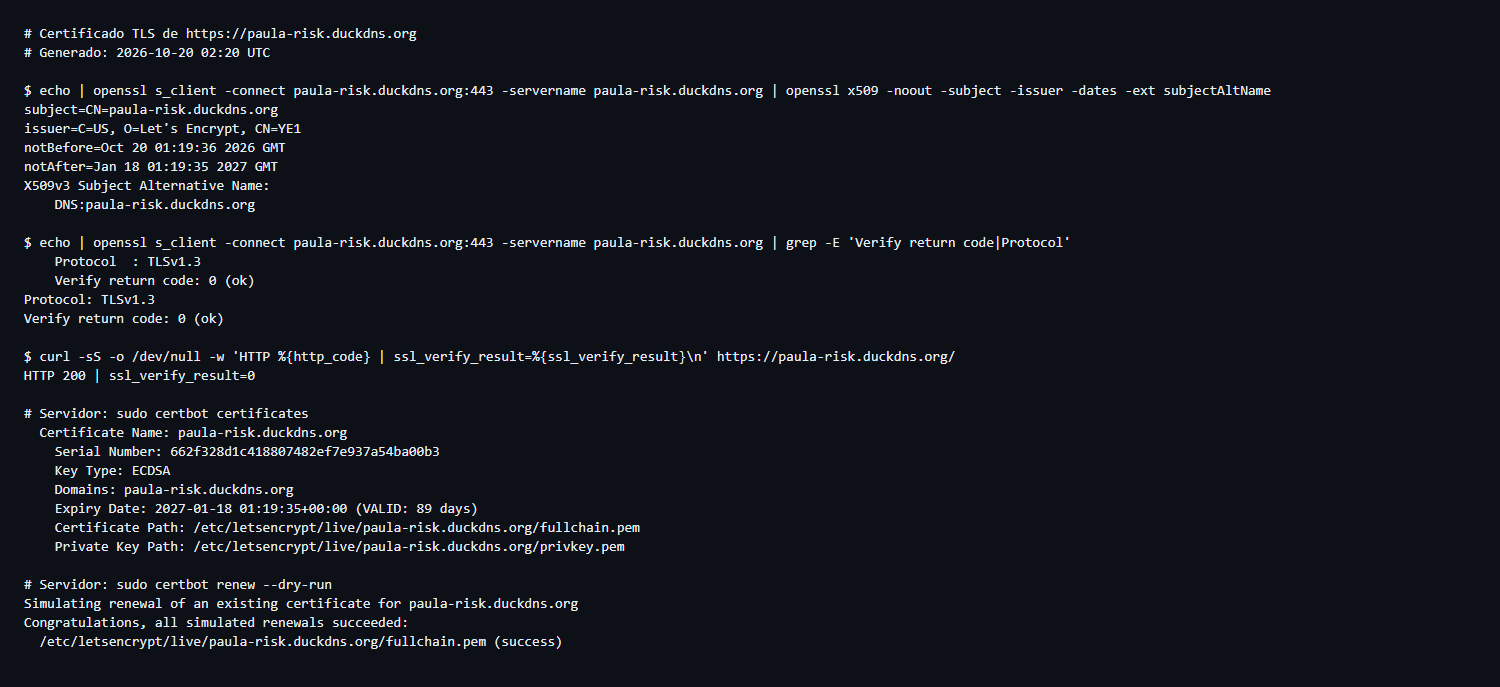
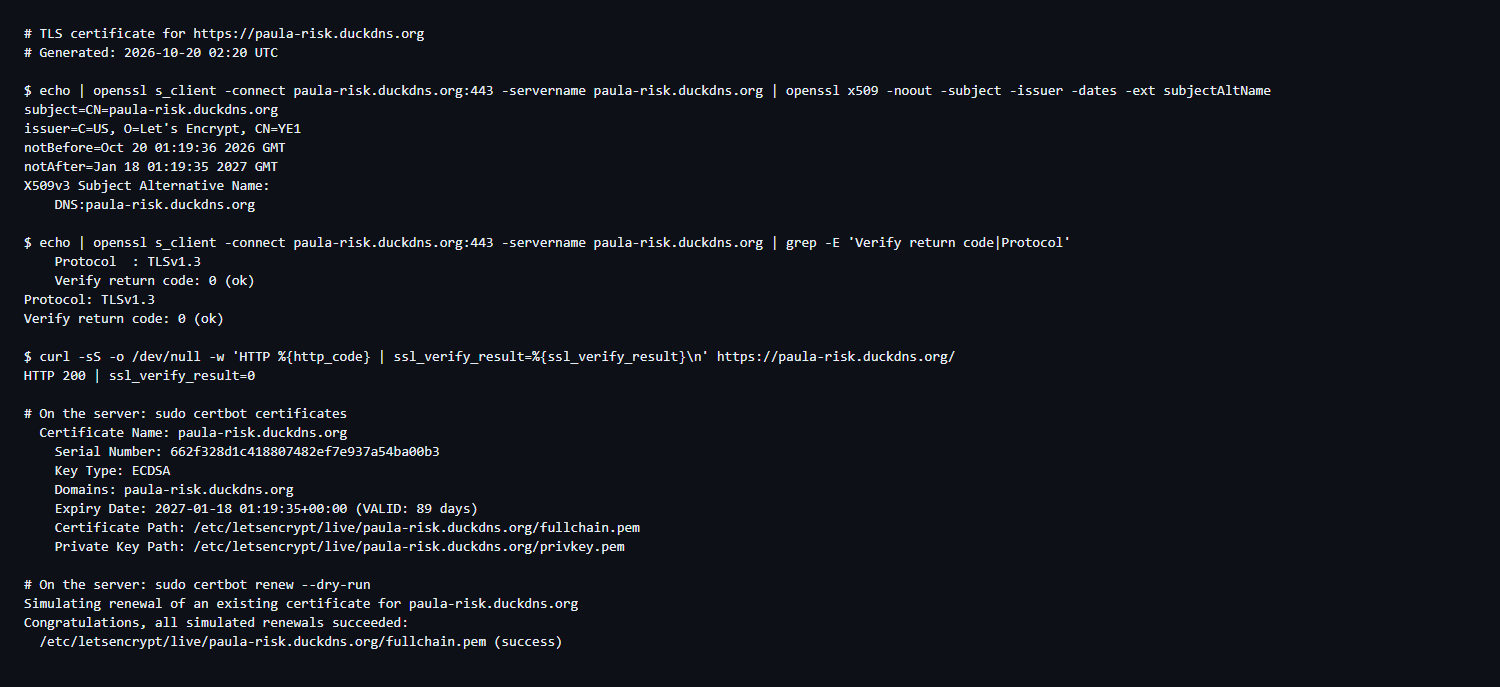
Switch the READMEs and evidence notes to English
Rewrite both READMEs in plain English, translate the comments in the
certificate and verification evidence, and re-render their images.

Changed region(s): [[0.0307, 0.0306, 0.276, 0.0917], [0.0307, 0.8253, 0.2453, 0.8559], [0.0307, 0.5808, 0.2453, 0.6114]]

diff --git a/README.md b/README.md
@@ -1,47 +1,49 @@
 # Secure Web System as an Enterprise Risk Control
 
-Este proyecto es un sistema web pequeño hecho para practicar controles de seguridad. Tiene tres partes:
+This is a small web app built to practice security controls. It has three parts:
 
-- Un **frontend en React** (hecho con Vite) donde la persona inicia sesión con **Auth0**.
-- Un **backend en Spring Boot** que funciona como **OAuth 2.0 Resource Server**. Solo responde si la petición trae un token JWT válido de Auth0, y revisa quién lo emitió (`issuer`) y para qué API es (`audience`).
-- Un **despliegue público con HTTPS**, usando **Duck DNS** para el dominio, **Apache** como proxy inverso y un certificado gratuito de **Let's Encrypt**.
+- A **React frontend** (built with Vite) where you log in with **Auth0**.
+- A **Spring Boot backend** that works as an **OAuth 2.0 Resource Server**. It only answers if the request has a valid JWT from Auth0, and it checks who issued the token (`issuer`) and which API it was made for (`audience`).
+- A **public HTTPS deployment**, using **Duck DNS** for the domain, **Apache** as a reverse proxy and a free **Let's Encrypt** certificate.
 
-## Dónde está desplegado
+## Where it's deployed
 
 **https://paula-risk.duckdns.org**
 
-## Cómo funciona
+If the link doesn't load, the EC2 instance is probably stopped. We shut it down when it's not in use to save AWS lab credits. All the proof that it worked is in `docs/evidence/`.
 
-1. La persona entra al frontend y le da clic a **Log in**.
-2. Auth0 le pide su correo y contraseña. Si son correctos, le entrega al navegador un access token para la API `https://enterprise-risk-api`.
-3. Cuando la persona le da clic a **Call protected API**, el frontend llama a `GET /api/risk-status` y manda el token en la cabecera `Authorization: Bearer <token>`.
-4. El backend revisa el token. Si es válido, responde con un JSON. Si no hay token o no sirve, responde `401`.
-5. En el servidor, todo entra por Apache en los puertos 80 y 443. Apache entrega el frontend y le pasa las peticiones de `/api/` al backend, que solo escucha dentro del servidor en `127.0.0.1:8080`. Así el puerto 8080 nunca queda abierto a internet.
+## How it works
 
-## Qué hay en el repositorio
+1. You open the frontend and click **Log in**.
+2. Auth0 asks for your email and password. If they're right, it gives the browser an access token for the `https://enterprise-risk-api` API.
+3. When you click **Call protected API**, the frontend calls `GET /api/risk-status` and sends the token in the `Authorization: Bearer <token>` header.
+4. The backend checks the token. If it's valid, it answers with a JSON. If there's no token or it's not valid, it answers `401`.
+5. On the server, everything comes in through Apache on ports 80 and 443. Apache serves the frontend and passes `/api/` requests to the backend, which only listens inside the server on `127.0.0.1:8080`. That way port 8080 is never open to the internet.
 
-| Carpeta o archivo | Qué contiene |
+## What's in the repo
+
+| Folder or file | What's inside |
 |---|---|
-| `backend/` | La API en Spring Boot con Java 21 y Maven. Ahí están `SecurityConfig`, `RiskController` y `application.properties` |
-| `frontend/` | La app en React con `@auth0/auth0-react` |
-| `deploy/enterprise-risk-api.service` | El servicio de systemd que deja corriendo el backend en el servidor (Parte 5) |
-| `deploy/enterprise-risk.conf` | La configuración del sitio en Apache (Parte 6) |
-| `docs/evidence/` | Las capturas y las salidas de comandos que sirven de evidencia |
+| `backend/` | The Spring Boot API with Java 21 and Maven. This is where `SecurityConfig`, `RiskController` and `application.properties` live |
+| `frontend/` | The React app with `@auth0/auth0-react` |
+| `deploy/enterprise-risk-api.service` | The systemd service that keeps the backend running on the server (Part 5) |
+| `deploy/enterprise-risk.conf` | The Apache site config (Part 6) |
+| `docs/evidence/` | Screenshots and command output used as proof |
 
-## Configuración en Auth0
+## Auth0 setup
 
-| Qué | Valor |
+| What | Value |
 |---|---|
 | API | `Enterprise Risk Lab API` |
 | Identifier (audience) | `https://enterprise-risk-api` |
-| Algoritmo de firma | `RS256` |
-| Permiso | `read:risk`, que sirve para leer el estado de riesgo protegido |
-| Aplicación del navegador (SPA) | `Enterprise Risk Lab Frontend`, con **User-Delegated Access** a `read:risk` |
-| Callback URLs, Logout URLs y Web Origins | `http://localhost:5173,https://paula-risk.duckdns.org` |
+| Signing algorithm | `RS256` |
+| Permission | `read:risk`, used to read the protected risk status |
+| Browser app (SPA) | `Enterprise Risk Lab Frontend`, with **User-Delegated Access** to `read:risk` |
+| Callback URLs, Logout URLs and Web Origins | `http://localhost:5173,https://paula-risk.duckdns.org` |
 
-La SPA necesita **User-Delegated Access** porque actúa en nombre de la persona que inició sesión. El acceso tipo *Client Access* es para comunicación entre máquinas y no sirve para un login desde el navegador.
+The SPA needs **User-Delegated Access** because it acts on behalf of the person who logged in. *Client Access* is for machine to machine apps and doesn't work for a browser login.
 
-## Cómo correrlo en local
+## Running it locally
 
 **Backend**
 
@@ -50,11 +52,11 @@ cd backend
 ./mvnw spring-boot:run
 ```
 
-Si abres `http://localhost:8080/api/risk-status` sin token, responde `401 Unauthorized`. Eso es lo esperado.
+If you open `http://localhost:8080/api/risk-status` without a token, you get `401 Unauthorized`. That's expected.
 
 **Frontend**
 
-Copia `frontend/.env.example` como `frontend/.env.local` y llénalo con el Domain y el Client ID de la aplicación en Auth0. Este archivo no se sube al repositorio.
+Copy `frontend/.env.example` to `frontend/.env.local` and fill in the Domain and Client ID of the Auth0 app. This file is never pushed to the repo.
 
 ```
 VITE_AUTH0_DOMAIN=YOUR_TENANT.us.auth0.com
@@ -69,73 +71,73 @@ npm install
 npm run dev
 ```
 
-Luego abres `http://localhost:5173`, inicias sesión y le das clic a **Call protected API**.
+Then open `http://localhost:5173`, log in and click **Call protected API**.
 
-## Cómo se desplegó
+## How it was deployed
 
-1. **Servidor:** una instancia EC2 de AWS con Ubuntu y una Elastic IP (`98.82.207.254`). Se creó el usuario `deploy`, que no es root, y se activó el firewall `ufw`. Desde internet solo se puede entrar por los puertos 80 y 443 para la web, y por el 22 para administrar el servidor por SSH. El 8080 no está abierto.
-2. **Duck DNS:** el subdominio `paula-risk.duckdns.org` apunta a la Elastic IP.
-3. **Paquetes:** se instalaron con `sudo apt install -y apache2 certbot python3-certbot-apache openjdk-21-jre`.
-4. **Compilación:** el frontend y el backend se compilaron en mi computador con `npm run build` y `./mvnw clean package`, y se copiaron al servidor con `scp`. Para el build de producción se usó `VITE_API_URL=https://paula-risk.duckdns.org`.
-5. **Backend:** el JAR quedó en `/opt/enterprise-risk-api/app.jar` y corre con el usuario de sistema `riskapi` usando `deploy/enterprise-risk-api.service`. A ese servicio le agregué `SERVER_ADDRESS=127.0.0.1` para que escuche solo dentro del servidor. Sin esa línea, Spring Boot escucha en todas las interfaces y el puerto 8080 solo quedaría protegido por el firewall.
-6. **Frontend:** el contenido de `dist/` quedó en `/var/www/enterprise-risk-frontend`.
-7. **Apache:** se activaron los módulos con `sudo a2enmod ssl proxy proxy_http rewrite headers`, se habilitó el sitio `deploy/enterprise-risk.conf` y se deshabilitó el sitio por defecto.
-8. **HTTPS:** el certificado se sacó con `sudo certbot --apache -d paula-risk.duckdns.org`. Certbot creó la configuración del puerto 443 y agregó la redirección de HTTP a HTTPS. Esa redirección no funcionaba porque `RewriteEngine On` solo estaba dentro del bloque `<Directory>`, así que se agregó también a nivel del VirtualHost del puerto 80.
-9. **Renovación:** `sudo certbot renew --dry-run` terminó sin errores. Certbot deja programada la renovación automática.
-10. **Auth0:** se agregó `https://paula-risk.duckdns.org` en Callback URLs, Logout URLs y Web Origins.
+1. **Server:** an AWS EC2 instance with Ubuntu and an Elastic IP (`98.82.207.254`). We created a `deploy` user that isn't root and turned on the `ufw` firewall. From the internet you can only get in through ports 80 and 443 for the web, and port 22 to manage the server over SSH. Port 8080 isn't open.
+2. **Duck DNS:** the `paula-risk.duckdns.org` subdomain points to the Elastic IP.
+3. **Packages:** installed with `sudo apt install -y apache2 certbot python3-certbot-apache openjdk-21-jre`.
+4. **Build:** the frontend and backend were built on my computer with `npm run build` and `./mvnw clean package`, then copied to the server with `scp`. The production build uses `VITE_API_URL=https://paula-risk.duckdns.org`.
+5. **Backend:** the JAR lives in `/opt/enterprise-risk-api/app.jar` and runs as the `riskapi` system user through `deploy/enterprise-risk-api.service`. I added `SERVER_ADDRESS=127.0.0.1` to that service so it only listens inside the server. Without that line, Spring Boot listens on every network interface and port 8080 would only be protected by the firewall.
+6. **Frontend:** the contents of `dist/` went to `/var/www/enterprise-risk-frontend`.
+7. **Apache:** we turned on the modules with `sudo a2enmod ssl proxy proxy_http rewrite headers`, enabled the `deploy/enterprise-risk.conf` site and disabled the default site.
+8. **HTTPS:** the certificate came from `sudo certbot --apache -d paula-risk.duckdns.org`. Certbot created the port 443 config and added the redirect from HTTP to HTTPS. That redirect didn't work at first because `RewriteEngine On` was only inside the `<Directory>` block, so we also added it to the port 80 VirtualHost.
+9. **Renewal:** `sudo certbot renew --dry-run` finished with no errors. Certbot also sets up automatic renewal.
+10. **Auth0:** we added `https://paula-risk.duckdns.org` to Callback URLs, Logout URLs and Web Origins.
 
-## Evidencias
+## Evidence
 
-Las evidencias que pide el taller:
+What the workshop asks for:
 
-| Entregable | Archivo |
+| Deliverable | File |
 |---|---|
-| Llamada exitosa a la API con sesión iniciada, en el sitio desplegado | [authenticated-api-call.png](docs/evidence/authenticated-api-call.png) |
-| Certificado válido (salida de `openssl` y `certbot`) | [certificate.png](docs/evidence/certificate.png) y [certificate.txt](docs/evidence/certificate.txt) |
-| Revisión de la Parte 7 (salida de los comandos) | [verification.png](docs/evidence/verification.png) y [verification.txt](docs/evidence/verification.txt) |
+| Successful API call while logged in, on the deployed site | [authenticated-api-call.png](docs/evidence/authenticated-api-call.png) |
+| Valid certificate (`openssl` and `certbot` output) | [certificate.png](docs/evidence/certificate.png) and [certificate.txt](docs/evidence/certificate.txt) |
+| Part 7 checks (command output) | [verification.png](docs/evidence/verification.png) and [verification.txt](docs/evidence/verification.txt) |
 
-Capturas de cada paso, en orden:
+Screenshots of each step, in order:
 
-| Capturas | Qué muestran |
+| Screenshots | What they show |
 |---|---|
-| 01 y 02 | La pantalla de login de Auth0 y el inicio de sesión con el usuario de prueba |
-| 03 y 04 | La prueba en local: sesión iniciada y llamada a la API desde `localhost:5173` |
-| 05 y 06 | La Elastic IP asociada y la instancia EC2 corriendo |
-| 07, 08 y 09 | El subdominio creado en Duck DNS, su IP actualizada y la prueba con `nslookup` |
-| 10 a 14 | La conexión por SSH, la instalación de paquetes, el usuario `deploy` y el firewall |
-| 15 | La copia de los archivos al servidor con `scp` |
-| 16 | Las URLs de producción guardadas en Auth0 |
-| 17 | El sitio funcionando en `https://paula-risk.duckdns.org` |
+| 01 and 02 | The Auth0 login screen and logging in with the test user |
+| 03 and 04 | The local test: logged in and calling the API from `localhost:5173` |
+| 05 and 06 | The Elastic IP linked to the instance and the EC2 instance running |
+| 07, 08 and 09 | The subdomain created in Duck DNS, its IP updated and the `nslookup` check |
+| 10 to 14 | SSH access, installing packages, the `deploy` user and the firewall |
+| 15 | Copying the files to the server with `scp` |
+| 16 | The production URLs saved in Auth0 |
+| 17 | The site running at `https://paula-risk.duckdns.org` |
 
-## Lista de verificación
+## Checklist
 
-| Punto | Estado | Cómo se comprobó |
+| Item | Status | How we checked it |
 |---|---|---|
-| Sin login, `/api/risk-status` responde 401 | Listo | `verification.txt`: responde 401 sin token y también con un token falso |
-| Con sesión iniciada se puede llamar a `/api/risk-status` desde el frontend | Listo | `authenticated-api-call.png` |
-| El backend revisa el issuer y la audiencia del JWT | Listo | `application.properties` y el servicio de systemd configuran los dos. Un token falso recibe 401 |
-| La app está en `https://paula-risk.duckdns.org` | Listo | `verification.txt`: responde 200 por HTTPS, y HTTP redirige a HTTPS con 301 |
-| El certificado es válido y el navegador muestra la conexión segura | Listo | `certificate.txt`: emitido por Let's Encrypt, `Verify return code: 0 (ok)`, vence el 18 de enero de 2027 |
-| El puerto 8080 no se puede usar desde internet | Listo | `verification.txt`: desde afuera se agota el tiempo de espera, y en el servidor escucha solo en `127.0.0.1` |
-| `sudo certbot renew --dry-run` funciona | Listo | `certificate.txt` |
+| Without logging in, `/api/risk-status` returns 401 | Done | `verification.txt`: it returns 401 with no token and also with a fake token |
+| A logged in user can call `/api/risk-status` from the frontend | Done | `authenticated-api-call.png` |
+| The backend checks the JWT issuer and audience | Done | Both are set in `application.properties` and in the systemd service. A fake token gets 401 |
+| The app is live at `https://paula-risk.duckdns.org` | Done | `verification.txt`: it returns 200 over HTTPS, and HTTP redirects to HTTPS with 301 |
+| The certificate is valid and the browser shows a secure connection | Done | `certificate.txt`: issued by Let's Encrypt, `Verify return code: 0 (ok)`, expires on January 18, 2027 |
+| Port 8080 can't be reached from the internet | Done | `verification.txt`: from outside the request times out, and on the server it only listens on `127.0.0.1` |
+| `sudo certbot renew --dry-run` works | Done | `certificate.txt` |
 
-## Controles de riesgo
+## Risk controls
 
-| Control | Qué riesgo baja | Evidencia |
+| Control | Risk it lowers | Evidence |
 |---|---|---|
-| Login con Auth0 | Que alguien se haga pasar por otra persona o que las contraseñas se manejen mal | El login de Auth0 y el usuario que aparece en la app |
-| Validación del JWT en la API | Que alguien use la API sin permiso | Responde 401 si no hay un token válido |
-| Validación de la audiencia | Que un token hecho para otra API se use en esta | La API solo acepta tokens para `https://enterprise-risk-api` |
-| HTTPS con certificado válido | Que alguien vea contraseñas o tokens mientras viajan por la red | Los datos del certificado en `certificate.txt` |
-| Apache como proxy inverso | Que el puerto de la aplicación quede expuesto | Solo los puertos 80 y 443 están abiertos |
-| Logs del servicio | Tardar mucho en investigar un incidente | La salida de `journalctl -u enterprise-risk-api` en `verification.txt` |
+| Auth0 login | Someone pretending to be someone else, or passwords being handled badly | The Auth0 login and the user shown in the app |
+| JWT check in the API | Someone using the API without permission | It returns 401 without a valid token |
+| Audience check | A token made for another API being used on this one | The API only accepts tokens for `https://enterprise-risk-api` |
+| HTTPS with a valid certificate | Someone seeing passwords or tokens while they travel over the network | The certificate details in `certificate.txt` |
+| Apache as a reverse proxy | The app's port being exposed | Only ports 80 and 443 are open |
+| Service logs | Taking too long to look into an incident | The `journalctl -u enterprise-risk-api` output in `verification.txt` |
 
-**Diferencia entre autenticación y autorización.** La autenticación responde *quién eres*. Aquí la hace Auth0 cuando la persona inicia sesión. La autorización responde *qué puedes hacer*. Aquí la hace el backend: solo deja pasar a `/api/**` las peticiones con un token válido, firmado por el tenant de Auth0 y hecho para esta API. Cualquier otra ruta se bloquea con `denyAll()`, menos `/actuator/health`, que queda abierta para revisar que el servicio está vivo.
+**Authentication vs. authorization.** Authentication answers *who you are*. Here Auth0 does it when you log in. Authorization answers *what you're allowed to do*. Here the backend does it: it only lets requests into `/api/**` if they have a valid token, signed by the Auth0 tenant and made for this API. Every other route is blocked with `denyAll()`, except `/actuator/health`, which stays open so you can check the service is up.
 
-## Notas de seguridad
+## Security notes
 
-- Nunca se suben al repositorio `.env.local`, las llaves del servidor, secretos de Auth0 ni el token de Duck DNS. La captura donde se veía el token de Duck DNS se dejó por fuera con `.gitignore`.
-- La SPA usa solo el Client ID de Auth0. Nunca usa el Client Secret.
-- CORS solo acepta `http://localhost:5173` y `https://paula-risk.duckdns.org`, y solo permite peticiones `GET`.
-- Los access tokens no se muestran en pantalla, no se escriben en los logs y no se guardan a mano.
-- El backend corre con un usuario de sistema sin privilegios (`riskapi`) y el despliegue se hace con un usuario que no es root.
+- We never push `.env.local`, server keys, Auth0 secrets or the Duck DNS token to the repo. The screenshot that showed the Duck DNS token is left out with `.gitignore`.
+- The SPA only uses the Auth0 Client ID. It never uses the Client Secret.
+- CORS only accepts `http://localhost:5173` and `https://paula-risk.duckdns.org`, and only allows `GET` requests.
+- Access tokens aren't shown on screen, aren't written to logs and aren't saved by hand.
+- The backend runs as a system user with no extra privileges (`riskapi`), and the deployment uses a user that isn't root.

diff --git a/frontend/README.md b/frontend/README.md
@@ -1,21 +1,21 @@
 # Frontend
 
-App en React (hecha con Vite) que inicia sesión con Auth0 y llama a la API protegida.
+React app (built with Vite) that logs you in with Auth0 and calls the protected API.
 
-## Cómo correrla
+## How to run it
 
-1. Copia `.env.example` como `.env.local` y pon el Domain y el Client ID de tu aplicación en Auth0.
-2. Instala las dependencias y arranca el servidor de desarrollo:
+1. Copy `.env.example` to `.env.local` and fill in the Domain and Client ID of your Auth0 app.
+2. Install the dependencies and start the dev server:
 
 ```bash
 npm install
 npm run dev
 ```
 
-3. Abre `http://localhost:5173`.
+3. Open `http://localhost:5173`.
 
-Para el build de producción, crea `.env.production.local` con `VITE_API_URL=https://paula-risk.duckdns.org` y corre `npm run build`. El resultado queda en `dist/`.
+For the production build, create `.env.production.local` with `VITE_API_URL=https://paula-risk.duckdns.org` and run `npm run build`. The output goes to `dist/`.
 
-Los archivos `.env.local` y `.env.production.local` no se suben al repositorio.
+The `.env.local` and `.env.production.local` files are never pushed to the repo.
 
-Más detalles en el [README principal](../README.md).
+More details in the [main README](../README.md).
